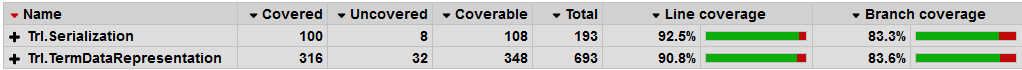
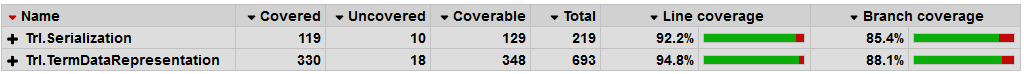
Add list serialization

diff --git a/Trl.Serialization/Translator/ObjectToAstTranslator.cs b/Trl.Serialization/Translator/ObjectToAstTranslator.cs
@@ -1,4 +1,5 @@
 using System;
+using System.Collections;
 using System.Collections.Generic;
 using System.Numerics;
 using Trl.TermDataRepresentation.Parser;
@@ -10,12 +11,7 @@ namespace Trl.Serialization.Translator
     {
         internal ITrlParseResult BuildAst<TObject>(TObject inputObject, string rootLabel)
         {
-            ITrlParseResult expression = (inputObject, IsNumeric(inputObject)) switch
-            {
-                (string inputString, _) => ConvertStringToAst(inputString),
-                (_, true) => ConvertNumberToAst(inputObject),
-                _ => throw new NotImplementedException()
-            };
+            ITrlParseResult expression = BuildAstForObject(inputObject);
 
             return new Statement
             {
@@ -33,20 +29,50 @@ namespace Trl.Serialization.Translator
             };
         }
 
-        private ITrlParseResult ConvertNumberToAst<TObject>(TObject inputObject)
-            => new NumericValue
+        private ITrlParseResult BuildAstForObject(object inputObject)
+        {
+            if (inputObject == null)
             {
-                Value = Convert.ToString(inputObject)
-            };
-
-
-        private ITrlParseResult ConvertStringToAst(string inputObject)
-            => new StringValue
+                return new Identifier
+                {
+                    Name = "null"
+                };
+            }
+            else if (inputObject is string)
             {
-                Value = Convert.ToString(inputObject)
-            };
+                return new StringValue
+                {
+                    Value = Convert.ToString(inputObject)
+                };
+            }
+            // NB: IEnumerable must be after string because string is IEnumerable
+            else if (inputObject is IEnumerable)
+            {
+                var list = new TermList()
+                {
+                    Terms = new List<ITrlTerm>()
+                };
+                var inputEnumerable = (IEnumerable)inputObject;
+                foreach (var item in inputEnumerable)
+                {
+                    list.Terms.Add((ITrlTerm)BuildAstForObject(item));
+                }
+                return list;
+            }
+            else if (IsNumeric(inputObject))
+            {
+                return new NumericValue
+                {
+                    Value = Convert.ToString(inputObject)
+                };
+            }
+            else
+            {
+                throw new NotImplementedException();
+            }
+        }
 
-        private static bool IsNumeric<TObject>(TObject inputObject)
+        private static bool IsNumeric(object inputObject)
             => inputObject is sbyte
             || inputObject is byte
             || inputObject is short

diff --git a/Trl.Serialization.Tests/StringSerializerTests.cs b/Trl.Serialization.Tests/StringSerializerTests.cs
@@ -1,5 +1,6 @@
 using System;
 using System.Collections.Generic;
+using System.Linq;
 using Trl.Serialization;
 using Xunit;
 
@@ -67,7 +68,7 @@ namespace Trl.Serializer.Tests
             Assert.Equal("root: 123;", output);
         }
 
-        [Fact(Skip = "Under construction")]
+        [Fact]
         public void ShouldSerializeList()
         {
             // Arrange
@@ -80,10 +81,46 @@ namespace Trl.Serializer.Tests
             Assert.Equal("root: (1,2,3);", output);
         }
 
-        [Fact(Skip = "Under construction")]
+        [Fact]
+        public void ShouldSerializeEmptyList()
+        {
+            // Arrange
+            var input = Enumerable.Empty<int>();
+
+            // Act
+            var output = _serializer.Serialize(input);
+
+            // Assert
+            Assert.Equal("root: ();", output);
+        }
+
+        [Fact]
+        public void ShouldSerializeMixedTypesList()
+        {
+            // Arrange
+            var input = new object[] { "abc", 123, null, new[] { 0x01,0x02,0x03 } };
+
+            // Act
+            var output = _serializer.Serialize(input);
+
+            // Assert
+            Assert.Equal("root: (\"abc\",123,null,(1,2,3));", output);
+        }
+
+        [Fact]
         public void ShouldSerializeNestedList()
         {
-            throw new NotImplementedException();
+            // Arrange
+            var input = new List<double[]>();
+            input.Add(new double[] { 1, 0, 0 });
+            input.Add(new double[] { 0, 1, 0 });
+            input.Add(new double[] { 0, 0, 1 });
+
+            // Act
+            var output = _serializer.Serialize(input);
+
+            // Assert
+            Assert.Equal("root: ((1,0,0),(0,1,0),(0,0,1));", output);
         }
 
         [Fact(Skip = "Under construction")]
@@ -102,6 +139,19 @@ namespace Trl.Serializer.Tests
         public void ShouldDeserializeArray()
         {
             throw new NotImplementedException();
+        }
+
+        [Fact]
+        public void ShouldSerializeNull()
+        {
+            // Arrange
+            object input = null;
+
+            // Act
+            var output = _serializer.Serialize(input);
+
+            // Assert
+            Assert.Equal("root: null;", output);
         }
     }
 }
